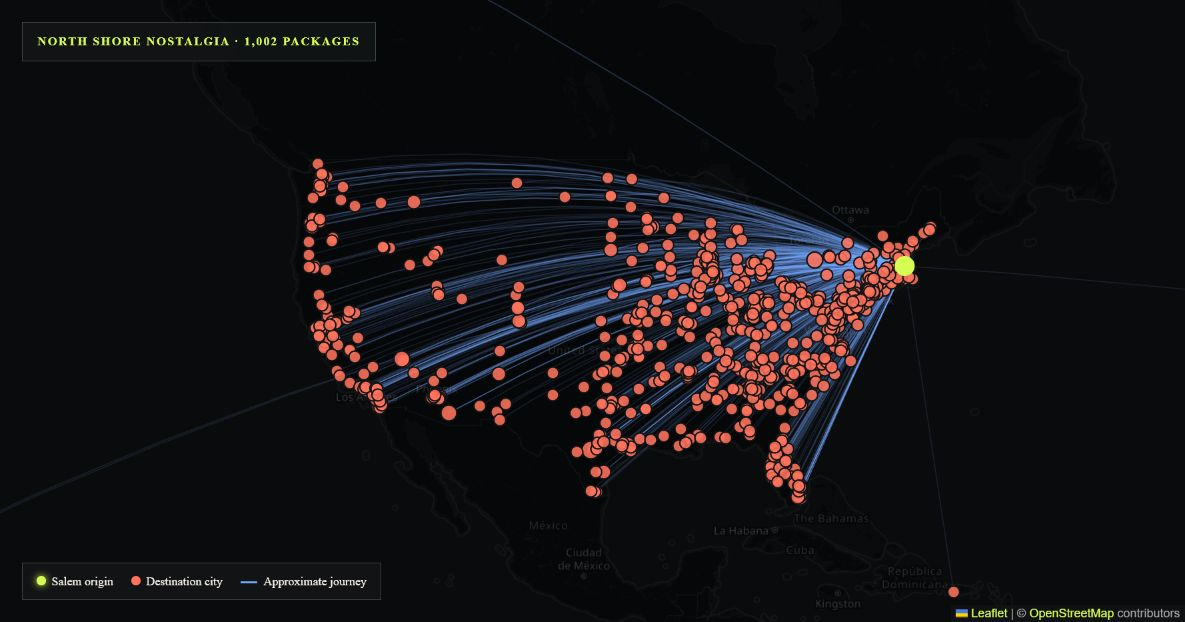
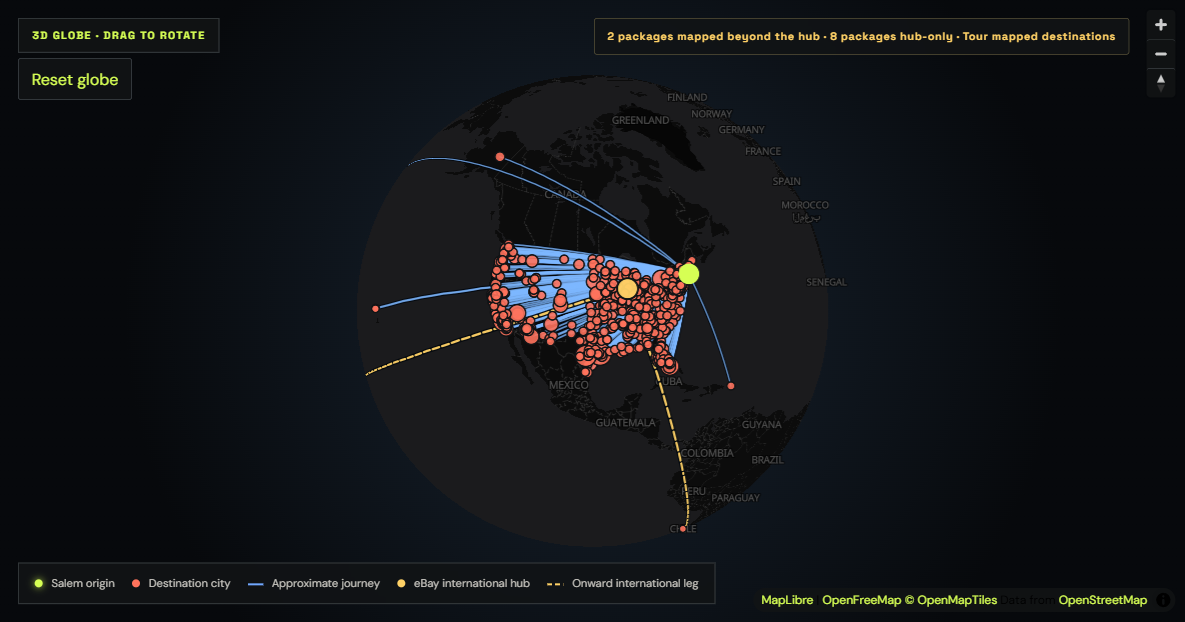
Update shipment globe portfolio card

diff --git a/js/projects.js b/js/projects.js
@@ -232,12 +232,12 @@ const projects = [
         title: "Where My Ebay Packages Have Travelled",
         category: "Web Mapping",
         type: "map",
-        tags: ["Leaflet", "Geocoding", "Privacy", "eBay API", "GitHub Actions"],
-        summary: "A public flow map built from 1,002 real North Shore Nostalgia shipments, with city-level geocoding, expanded sales records, and a cumulative month-by-month animation of the network growing from Salem.",
-        description: "A portfolio piece built from my own eBay business, North Shore Nostalgia. The project takes real sales history for used games, strips it down to a privacy-safe public dataset, geocodes destinations only to city and town centers, and maps how far packages have travelled from Salem, Massachusetts. The designed Leaflet flow map includes filters, a cumulative month-by-month timeline, destination and distance records, busiest periods, repeat-city and long-haul statistics, a longest-journey callout, and a scheduled GitHub Actions workflow that can pull new eBay orders when API credentials are configured. The raw order data stays private; the public dataset contains only generalized destinations, sale month, game titles, quantities, and approximate city-to-city distance.",
-        tools: ["Leaflet", "Python", "Nominatim", "eBay Fulfillment API", "GitHub Actions", "GitHub Pages"],
+        tags: ["MapLibre", "3D Globe", "Geocoding", "Privacy", "eBay API"],
+        summary: "An interactive 3D globe built from 1,009 real North Shore Nostalgia shipments, with city-level geocoding, great-circle journeys, visible eBay international handoffs, expanded sales records, and a cumulative month-by-month animation.",
+        description: "A portfolio piece built from my own eBay business, North Shore Nostalgia. The project takes real sales history for used games, strips it down to a privacy-safe public dataset, geocodes destinations only to city and town centers, and maps how far packages have travelled from Salem, Massachusetts. The MapLibre 3D globe uses densified great-circle arcs that follow the sphere, including safe handling across the antimeridian. eBay International Shipping orders are shown as two-stage journeys when the source export includes both the Illinois handoff hub and the true destination; older hub-only records are labeled honestly instead of guessing where they continued. The dashboard also includes filters, a cumulative month-by-month timeline, destination and distance records, busiest periods, repeat-city and long-haul statistics, a longest-journey callout, and a scheduled GitHub Actions workflow that can pull new eBay orders when API credentials are configured. The raw order data stays private; the public dataset contains only generalized destinations, sale month, game titles, quantities, approximate city-to-city distance, and an optional city-level handoff.",
+        tools: ["MapLibre GL JS", "Python", "Nominatim", "eBay Fulfillment API", "GitHub Actions", "GitHub Pages"],
         year: "2026",
-        thumb: "images/projects/where-games-go-thumb.png?v=map-2",
+        thumb: "images/projects/where-games-go-thumb.png?v=map-4",
         liveUrl: "https://mapzimus.github.io/where-the-games-go/",
         repoUrl: "https://github.com/mapzimus/where-the-games-go"
     },